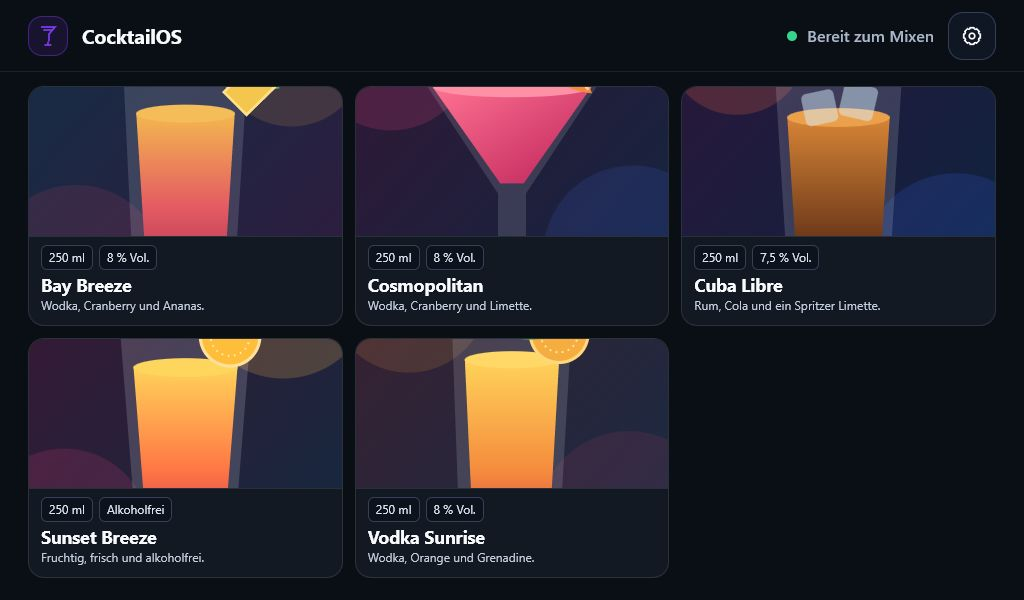
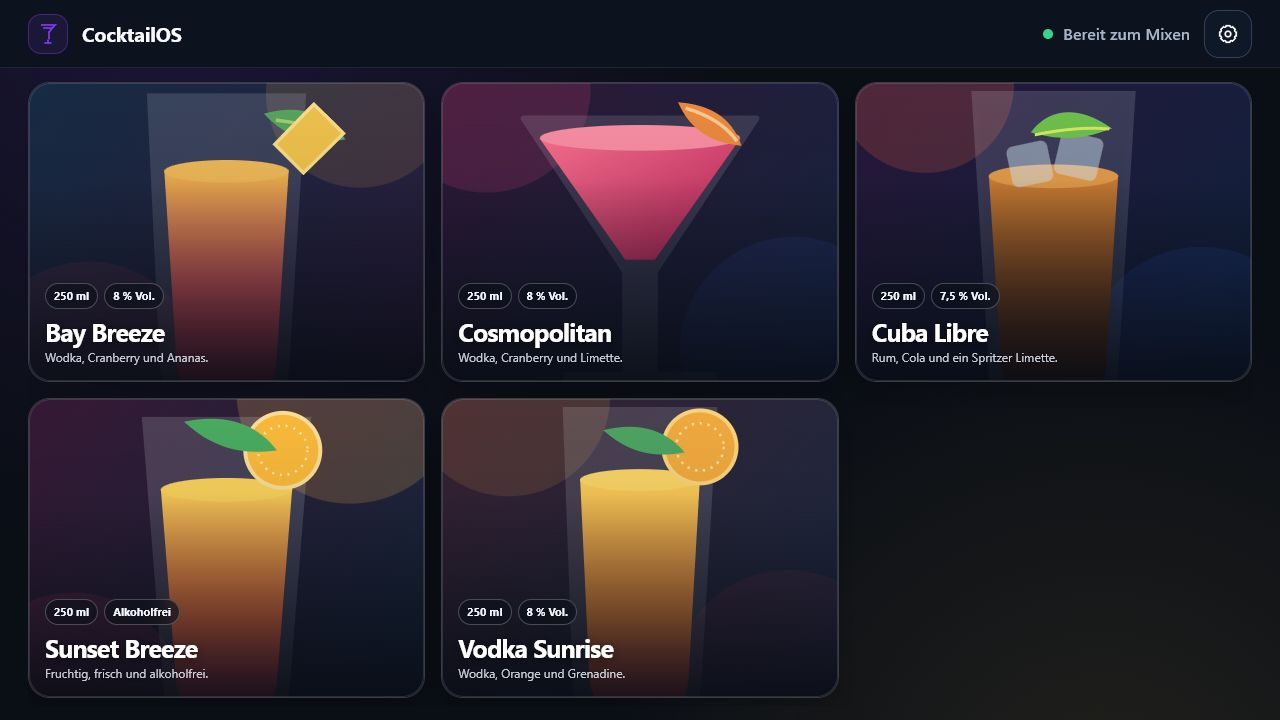
update docs

Changed region(s): [[0.0, 0.0, 1.0, 0.99], [0.3125, 0.36, 0.3438, 0.39]]

diff --git a/README.md b/README.md
@@ -28,7 +28,7 @@ Die Startseite zeigt bis zu sechs Cocktails in zwei Reihen. Weitere Cocktails la
 
 ### Pumpenverwaltung
 
-Die Einstellungen bündeln technische Details und Aktionen übersichtlich in einer Zeile. Status, GPIO-Pin, Förderrate und zugeordnete Zutat sind sofort erkennbar.
+Die Pumpenverwaltung zeigt Status, GPIO-Pin, Förderrate und zugeordnete Zutat auf einen Blick. Reinigungsmodus und das Füllen der Schläuche sind direkt erreichbar.
 
 ![Pumpenverwaltung](docs/screenshots/einstellungen-pumpen.png)
 